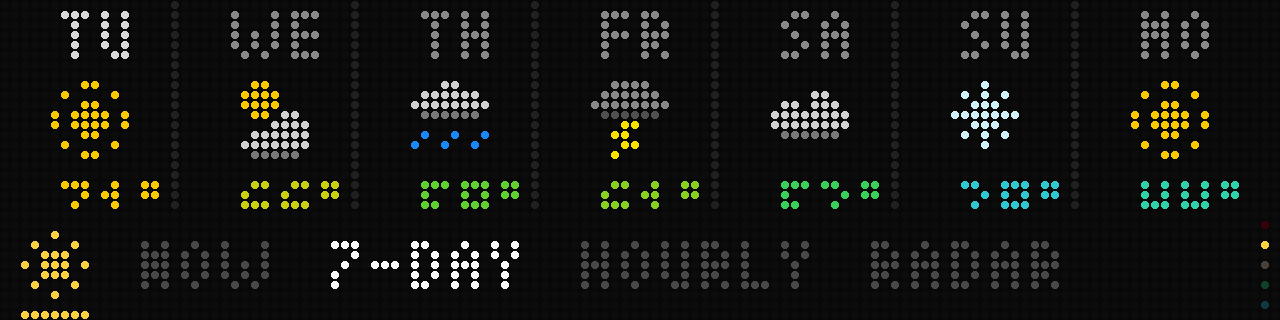
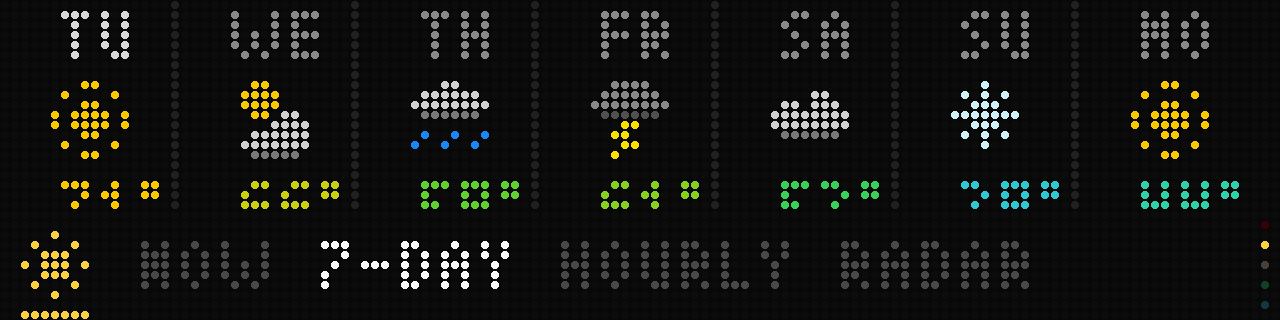
Knob chooser at 128: the variant strip
The bar shows the chosen category's icon and all its variants as words,
with the ring position as five dots at the right edge. Rendered for
every category; Clock uses short face names.

Claude-Session: https://claude.ai/code/session_01G1nRWyZ7ESNyz7GfjXtnvu

Changed region(s): [[0.4375, 0.75, 0.8438, 0.9062], [0.25, 0.75, 0.4062, 0.9062]]

diff --git a/scripts/mock-128-screens.js b/scripts/mock-128-screens.js
@@ -477,7 +477,7 @@ function chooser() {
 // Shown with Weather chosen, on its 7-DAY variant.
 const RING = ['transit', 'weather', 'clock', 'announce', 'cycle'];
 const RING_NAME = { transit: 'TRANSIT', weather: 'WEATHER', clock: 'CLOCK', announce: 'ANNOUNCE', cycle: 'CYCLE' };
-const VARS = { transit: ['ROWS', 'TICKER'], weather: ['NOW', '7-DAY', 'HOURLY', 'RADAR'], clock: ['SKYLINE', '70S', 'ANALOG', 'MAP', 'GRADIENT', 'WORDS'], announce: [], cycle: [] };
+const VARS = { transit: ['ROWS', 'TICKER'], weather: ['NOW', '7-DAY', 'HOURLY', 'RADAR'], clock: ['SKY', '70S', 'DIAL', 'MAP', 'GRAD', 'WORDS'], announce: [], cycle: [] };
 const DK = 1, DV = 1;
 function peekBase(top) {
   const f = new Frame(W, H), view = sevenDay();
@@ -506,13 +506,22 @@ function dialWheel() {
 }
 // 3. Variant strip: the chosen category's icon, then its variants as words (chosen white, rest dim);
 // where the category sits on the ring as a column of dots at the right edge.
-function dialStrip() {
-  const f = peekBase(21), cat = RING[DK], col = PEEK_COL[cat];
+// Chosen Nov 4. k: the ring entry, vi: its variant, view: the peek frame behind the bar.
+// A category without variants (Announce, Cycle) shows its name instead, in its color.
+function dialStrip(k = DK, vi = DV, view = sevenDay()) {
+  const f = new Frame(W, H);
+  for (let y = 0; y < H; y++) for (let x = 0; x < W; x++) f.set(x, y, view.get(x, y));
+  f.fill(0, 21, W, 11, '#000000');
+  const cat = RING[k], col = PEEK_COL[cat];
   glyph(f, PEEK_ICONS[cat], 2, 23, col);
   f.fill(2, 31, 7, 1, col);
+  // Words 5 px apart, closer when a category's variants need it (columns 14-123; the ring dots are on 126).
   let x = 14;
-  VARS[cat].forEach((v, j) => { x = f.text('small', v, x, 29, j === DV ? C.white : '#4a4a4a') + 5; });
-  RING.forEach((c2, i) => f.fill(126, 22 + i * 2, 1, 1, i === DK ? PEEK_COL[c2] : scale(PEEK_COL[c2], 0.3)));
+  const vs = VARS[cat], used = vs.reduce((a, v) => a + measure('small', v), 0);
+  const gap = vs.length > 1 ? Math.min(5, Math.floor((110 - used) / (vs.length - 1))) : 5;
+  if (!vs.length) f.text('small', RING_NAME[cat], x, 29, col);
+  vs.forEach((v, j) => { x = f.text('small', v, x, 29, j === vi ? C.white : '#4a4a4a') - 1 + gap; });   // text() returns the next origin, 1 px past the ink
+  RING.forEach((c2, i) => f.fill(126, 22 + i * 2, 1, 1, i === k ? PEEK_COL[c2] : scale(PEEK_COL[c2], 0.3)));
   return f;
 }
 // 4. Chip: no bar. A black chip at the bottom center with the name and variant, and
@@ -570,7 +579,10 @@ async function main() {
     ['more', 'credits', 'Credits roll', 'Wider lines mean fewer of them; the roll and its fade at the edges stay the same.', 'Mid-roll.', credits()],
     ['dial', 'dial-1-named', '1 · Icons in place, chosen one named', 'The 64 bar with room to spare: every category\'s icon stays put, the chosen one adds its name and variant, with one pip per variant under the variant name.', 'The first pass from the more-screens round.', dialNamed()],
     ['dial', 'dial-2-wheel', '2 · Wheel', 'The chosen category stays centered, named, with its neighbors\' icons either side, fading with distance and wrapping; twisting slides the strip under a fixed center.', '', dialWheel()],
-    ['dial', 'dial-3-strip', '3 · Variant strip', 'The bar shows what a press does: the chosen category\'s icon, then all its variants as words, the chosen one white. Where the category sits on the ring is a column of five dots at the right edge.', 'Twisting swaps the whole strip; Announce and Cycle show the icon alone. Clock\'s six faces only fit with short names (SKY 70S ANALOG MAP GRAD WORDS).', dialStrip()],
+    ['dial', 'dial-3-strip', '3 · Variant strip', 'The bar shows what a press does: the chosen category\'s icon, then all its variants as words, the chosen one white. Where the category sits on the ring is a column of five dots at the right edge.', 'Twisting swaps the whole strip. Clock uses short names (SKY 70S DIAL MAP GRAD WORDS) to fit.', dialStrip()],
+    ['dial3', 'dial-3-transit', 'Strip · Transit, ROWS', 'Two variants: ROWS and TICKER.', '', dialStrip(0, 0, transitRows())],
+    ['dial3', 'dial-3-clock', 'Strip · Clock, GRAD', 'Six faces with short names (SKY 70S DIAL MAP GRAD WORDS), 4 px apart instead of 5 so they clear the ring dots.', '', dialStrip(2, 4, gradient())],
+    ['dial3', 'dial-3-announce', 'Strip · Announce', 'No variants: the category\'s name in its color takes the strip.', 'Cycle works the same way.', dialStrip(3, 0, note())],
     ['dial', 'dial-4-chip', '4 · Chip, no bar', 'Most of the view stays visible: a black chip at the bottom center names the category and variant, with one dot per category under it in its color.', 'Same idea as the radar\'s time chip.', dialChip()],
     ['dial', 'dial-5-tworows', '5 · Two rows', 'Every category\'s icon spread across the width, the chosen one underlined, and under them the chosen category\'s variants as words.', 'The bar takes rows 17–31, half the panel. Clock\'s six faces need short names to fit, as in 3.', dialTwoRows()],
   ];

diff --git a/docs/board/wide-spec.md b/docs/board/wide-spec.md
@@ -133,17 +133,18 @@ Most of the skyline code already takes its width from a variable, and the server
 - **Line score (first pass):** innings 1–9, R H E, then the inning, count, outs, pitch count and bases on the bottom row. The innings are in the linescore the server already fetches; the pitch count isn't.
 - The classic, logo and band layouts and the other game states aren't planned yet.
 
-## 9. Knob chooser (open: five bars)
+## 9. Knob chooser (liked: variant strip)
 
-The interaction stays as at 64 (twist = category, press = next variant, hold and turn = step variants, rest 1 s commits; the chosen view fills the panel while choosing). What changes is the bar, which has room to name things. Five mocked (`dial-*.png`, Weather chosen on 7-DAY):
+The interaction stays as at 64 (twist = category, press = next variant, hold and turn = step variants, rest 1 s commits; the chosen view fills the panel while choosing). The bar changes:
 
-1. **Icons in place, chosen one named:** the 64 bar on rows 21–31, every icon where it is, the chosen one adding its name in its color, the variant name, and one pip per variant under the variant name.
-2. **Wheel:** the chosen category fixed at the center, named; neighbors' icons either side, fading with distance and wrapping. Twisting slides the strip under the center.
-3. **Variant strip:** the chosen category's icon, then all its variants as words (chosen white, the rest dim): it shows what a press will do. The ring position as five dots at the right edge. Clock's six faces need short names to fit (`SKY 70S ANALOG MAP GRAD WORDS`).
-4. **Chip, no bar:** a black chip at the bottom center with the name and variant, one dot per category under it. Most of the view stays visible (the same idea as the radar's chips).
-5. **Two rows:** every category's icon spread across the width, the chosen one underlined, and the chosen category's variants as words under them. The bar takes rows 17–31.
+- **Variant strip** on rows 21–31 (black band): the chosen category's 7 × 7 icon at x2 (rows 23–29) in its color with the underline on row 31, then **all its variants as words** in Tom Thumb on baseline 29 from x14: the chosen one white, the rest `#4a4a4a`. The strip shows what a press will do.
+- **Spacing:** 5 px between words, closer when a category needs it to stay within columns 14–123.
+- **Names:** Transit `ROWS TICKER`; Weather `NOW 7-DAY HOURLY RADAR`; Clock `SKY 70S DIAL MAP GRAD WORDS` (short names; 4 px apart).
+- **Categories without variants** (Announce, Cycle): the category's name in its color takes the strip.
+- **Ring position:** five 1-px dots in a column at x126 (rows 22–30, 2 px apart), each in its category's color, the chosen one full and the rest at 30 %.
+- Twisting swaps the whole strip (and slides the view sideways, as at 64); pressing moves the white word along it (and slides the view vertically).
 
-In 1–3 and 5 the bar hides the bottom of the view (here the forecast's temperatures), as at 64.
+Also mocked (`dial-*.png`): icons in place with the chosen one named, a centered wheel, a chip with no bar, and two rows of icons and words.
 
 ---
 
@@ -152,7 +153,6 @@ In 1–3 and 5 the bar hides the bottom of the view (here the forecast's tempera
 - Busy-station layout: confirm the fitting order in §3, or pick one layout.
 - Skyline: panorama or big clock; building art.
 - Direction labels for the split at Loop and branch stations.
-- Knob chooser: pick a bar in §9.
 - Baseball beyond the line score.
 
 ## 11. What the software would need (not started)
